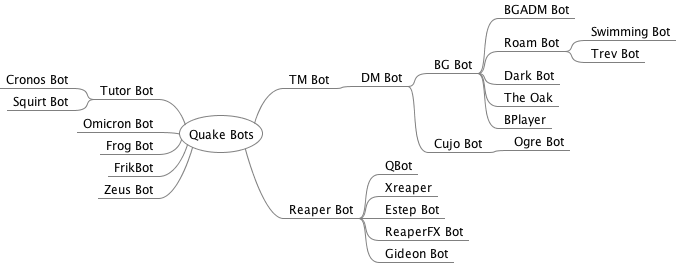
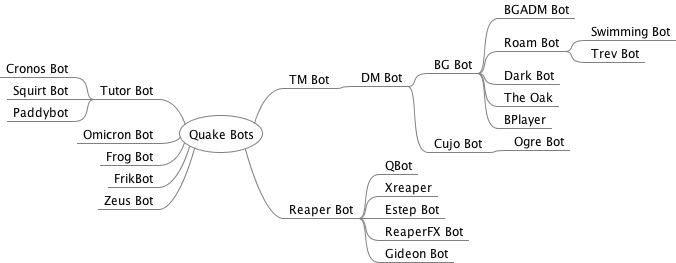
added Paddybot

Changed region(s): [[0.0, 0.2433, 0.3107, 0.8213]]

diff --git a/mindmap/QuakeBots.mm b/mindmap/QuakeBots.mm
@@ -4,6 +4,7 @@
 <node CREATED="1622514794312" ID="ID_565546253" MODIFIED="1622514799871" POSITION="left" TEXT="Tutor Bot">
 <node CREATED="1622514804704" ID="ID_11024833" MODIFIED="1622514812370" TEXT="Cronos Bot"/>
 <node CREATED="1622665755811" ID="ID_1110325053" MODIFIED="1622665757190" TEXT="Squirt Bot"/>
+<node CREATED="1622666096174" ID="ID_1637279739" MODIFIED="1622666098346" TEXT="Paddybot"/>
 </node>
 <node CREATED="1622514200034" ID="ID_1362333058" MODIFIED="1622514302490" POSITION="right" TEXT="TM Bot">
 <node CREATED="1622514242481" ID="ID_1334863165" MODIFIED="1622585805922" TEXT="DM Bot">

diff --git a/README.md b/README.md
@@ -36,4 +36,5 @@ Estep Bot (EsTePBot) | "EsTePaRiO" | [estepbot2eng.zip](bin/estepbot2eng.zip) | 
 ReaperFX Bot | A. W. Johnstone aka "Pob the Impaler" | [reaperfx.zip](bin/reaperfx.zip) | Yes |
 Gideon Bot | Matthew Turvey | [gidbot.zip](bin/gidbot.zip) | Yes |
 Squirt Bot | Michael Buettner aka "Squirt" | [squirt13.zip](bin/squirt13.zip) | Yes |
+Paddybot | "sniper" | paddybot02.zip | |
 
